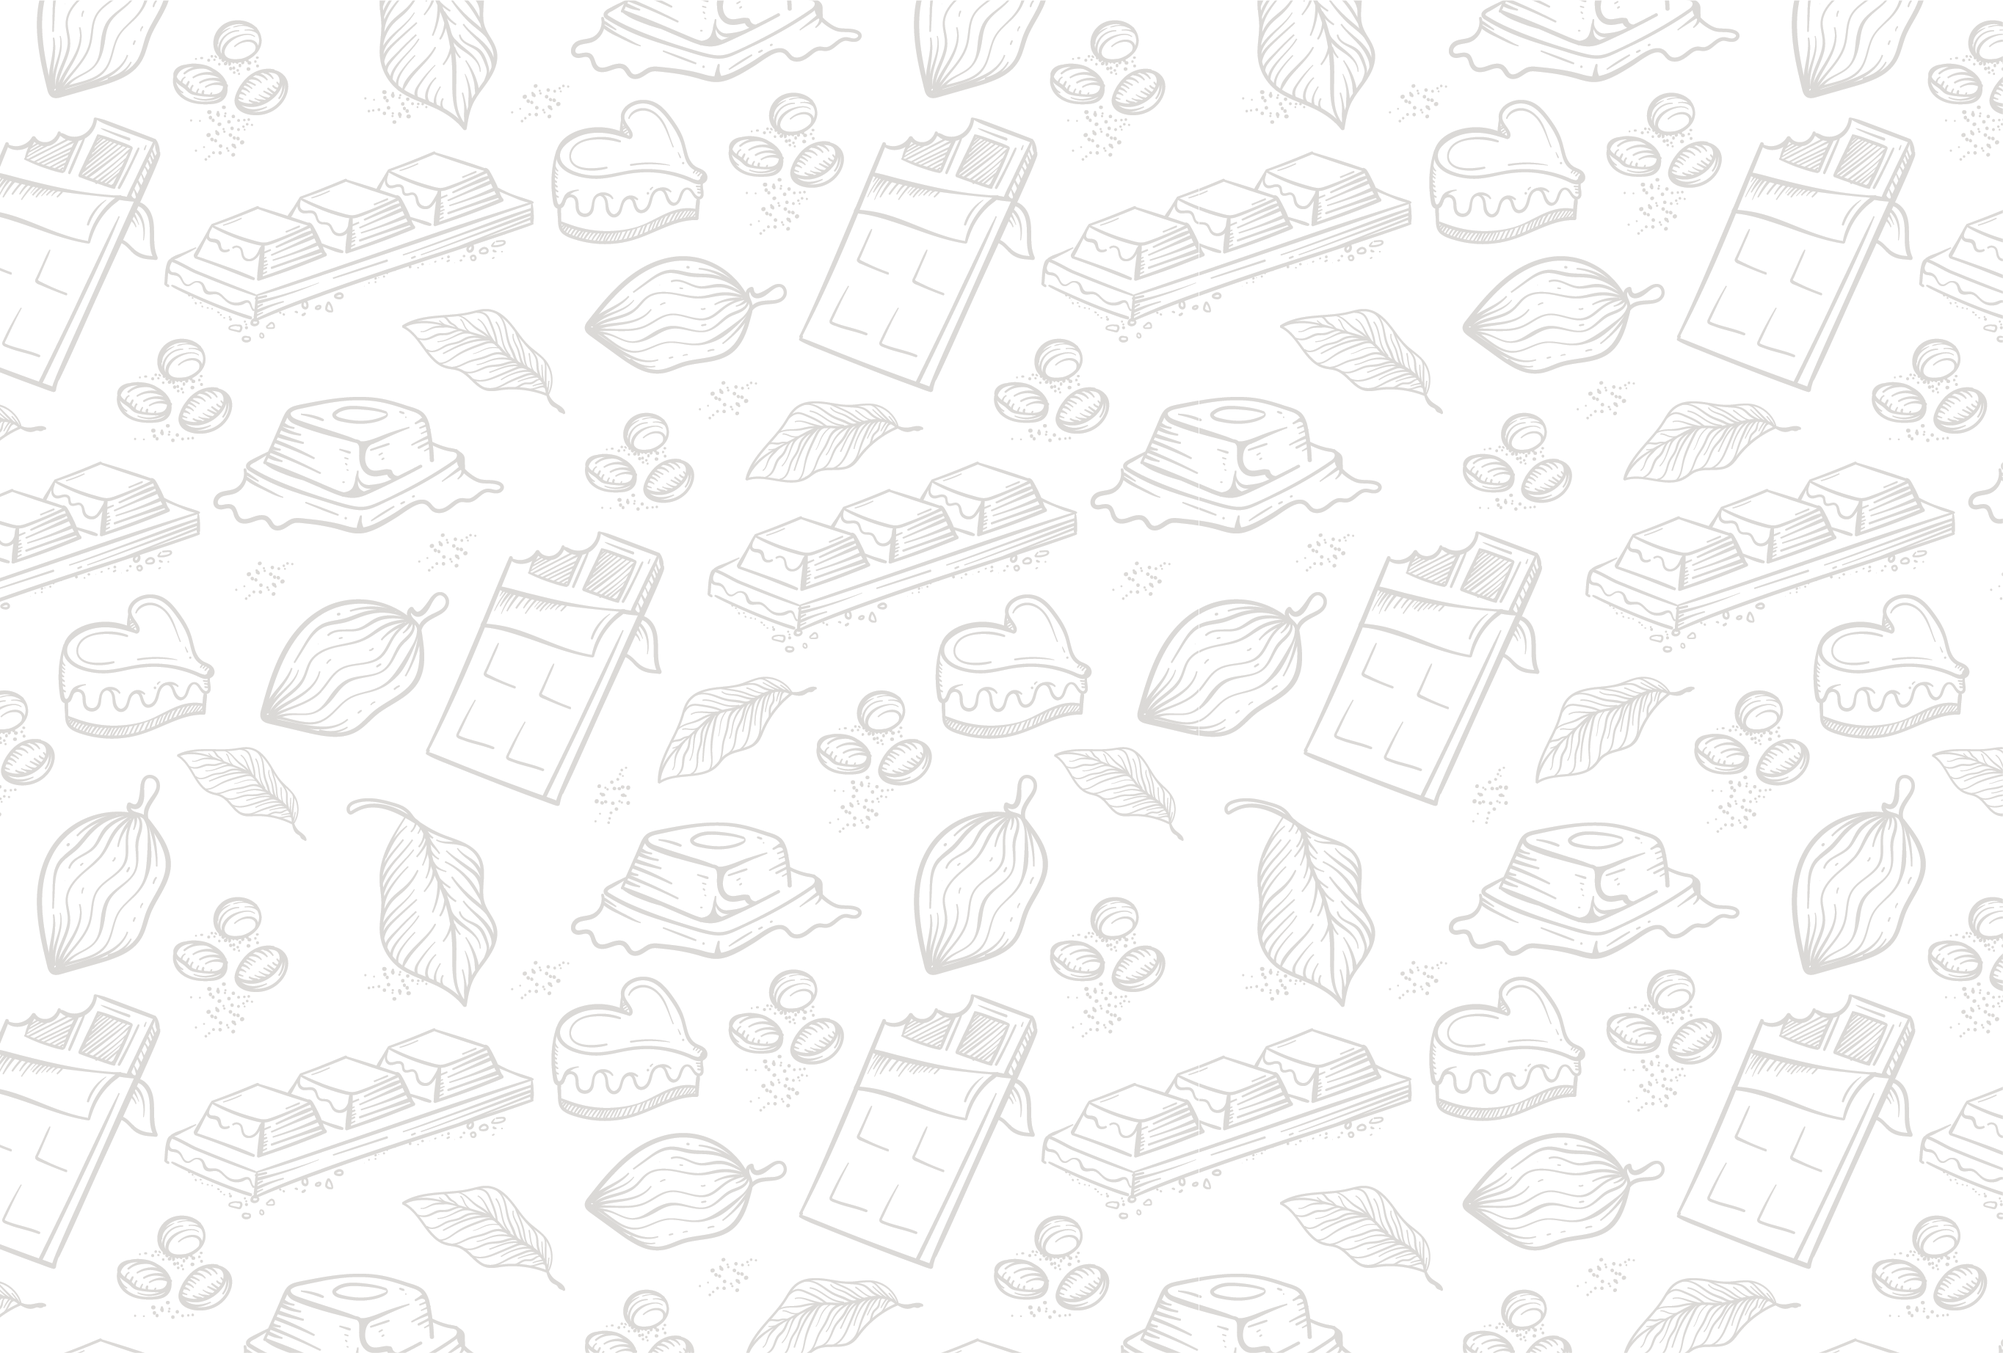
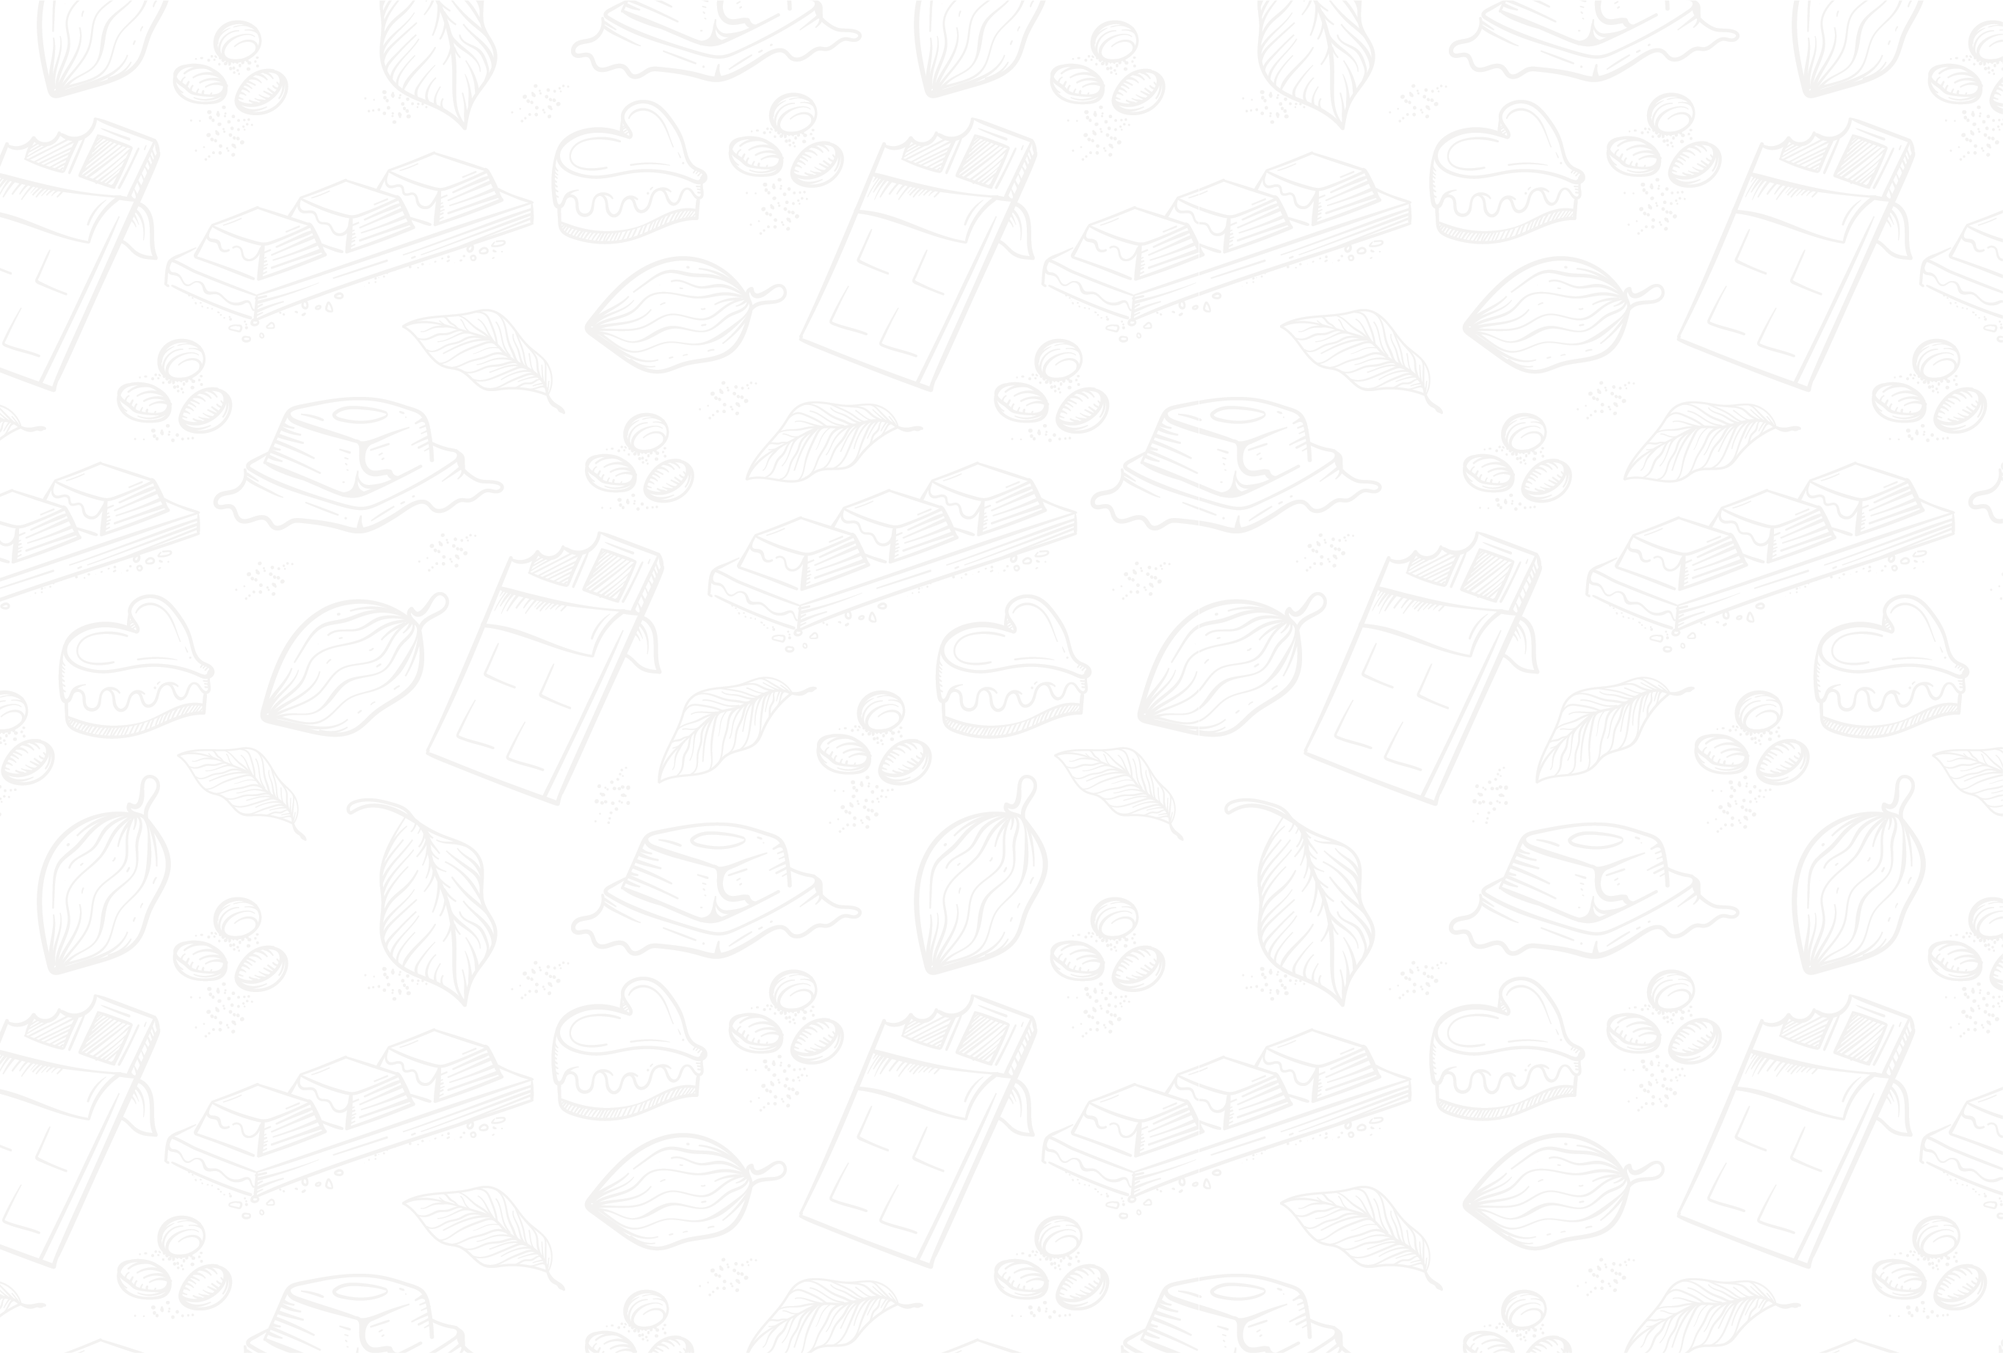
Отзывы под ВП

diff --git a/source/index.html b/source/index.html
@@ -261,75 +261,84 @@
     <section class="feedback section-wrapper" id="feedback">
       <!-- wysiwyg -->
       <h2>Отзывы покупателей</h2>
-      <ul>
-        <li>
+      <div class="slider">
+        <div class="slider__buttons">
+          <button class="slider__button button-round button-round--left" type="button" aria-label="Предыдущий слайд">
+          </button>
+          <button class="slider__button button-round button-round--right" type="button" aria-label="Следующий слайд">
+          </button>
+        </div>
+
+        <ul class="slider__list">
+          <li class="slider__item">
           Пирожное просто великолепное! Настоящее удовольствие! Идеально подходит как для семейного ужина, так и для
           подарка друзьям и коллегам! Приятно удивляет своим вкусом и качеством. Отличный вариант для тех, кто ценит
           высокое качество кондитерских изделий. Обязательно попробуйте и оцените сами!!! (отзыв с Авито)
         </li>
-        <li>
+        <li class="slider__item">
           Добрый вечер. Попробовали всей семьёй Ваше изделие. Очень, очень понравилось! Действительно натуральный вкус и
           приятное послевкусие! Что , в наше время , практически не встретить. Хотелось бы сказать Вам , спасибо, за
           этот продукт. <br>
           Всем советуем попробовать эту вкусноту . И в подарок не стыдно подарить. (отзыв с Авито)
         </li>
-        <li>
+        <li class="slider__item">
           Купил для подарка и для себя - интересно было, что за десерт! Мне очень Понравилось! Действительно напоминает
           чем-то картошку, но нет такой приторности, сухости вкуса. Очень вкусный десерт! С чаем коробка разлетелась за
           один прием! Рекомендую!!👍👍 (отзыв с Авито)
         </li>
-        <li>
+        <li class="slider__item">
           Шарики чудесные и очень вкусные особенно с кофе. 💥👍 Купил на подароки своим родным и друзьям, аж 15
             коробок 😊 Все очень довольны. 👍👍👍💯
         </li>
-        <li>
+        <li class="slider__item">
           <p>Очень вкусно по-настоящему, благодарю, Олег🙏❤</p>
           <p>Послезавтра будут гости, удивлю🙏❤</p>
         </li>
-        <li>
+        <li class="slider__item">
           Олег, присоединяюсь к отзывам про ромовые шарики😊Нам очень понравился десерт👏Вкусно, чувствуется
             натуральный состав, сладость умеренная (как я люблю)! 👍Точно порекомендую! Удачи Вам в развитии вашего
             производства🙏
         </li>
-        <li>
+        <li class="slider__item">
           Олег,дочь купила у вас ромовые шарики,попробовали и очень остались довольны,под новый год чудеса случаются,
             я давно хотела ощутить вкус детства и вот...шарики мне напомнили пирожное из детства,из того Советского
             Союза -" картошка",как же это вкусно 😋
         </li>
-        <li>
+        <li class="slider__item">
           Олег, спасибо за ромовые шарики! Очень вкусный и необычный десерт 😋
         </li>
-        <li>
+        <li class="slider__item">
           Вот как я жила без ромовых шариков? Как? Мне не досталось и уже как-то грустно... Хоть бы один
             попробовать...
         </li>
-        <li>
+        <li class="slider__item">
           Я бы взяла пока 2. Я бы взяла и больше, но боюсь объесться 🤦♀ с ними же невозможно остановиться 😁
         </li>
-        <li>
-          <p>- Добрый день. С сочельником и наступающим крещением! Скажите, пожалуйста, когда можно будет заказать? Взял
+        <li class="slider__item">
+          <p class="slider__description">- Добрый день. С сочельником и наступающим крещением! Скажите, пожалуйста, когда можно будет заказать? Взял
             бы 4 штучки. Ну уж очень вкусно. 🤤</p>
-          <p>- Да, очень вкусно! Я тоже подсел на эти шарики)))</p>
-          <p>- Я тоже подсела, 3 шарика - и я в изменённом состоянии сознания)))</p>
-          <p>- Это какие-то другие шарики, похоже с чем то другим 😁 если такая изменёнка. </p>
+          <p class="slider__description">- Да, очень вкусно! Я тоже подсел на эти шарики)))</p>
+          <p class="slider__description">- Я тоже подсела, 3 шарика - и я в изменённом состоянии сознания)))</p>
+          <p class="slider__description">- Это какие-то другие шарики, похоже с чем то другим 😁 если такая изменёнка. </p>
         </li>
-        <li>
+        <li class="slider__item">
          Наконец то появилось что то вкусное, натуральное!Соскучилась по настоящему, как в детстве. Спасибо, Олег
             большое! Если можно, мне бы 3 коробочки .          
         </li>
-        <li>
+        <li class="slider__item">
           Олег, благодарю за рождественское настроение через вашу продукцию!🙏❤
             Ооооооочень вкусно с кофе с лимончиком💥👍         
         </li>
-        <li>
+        <li class="slider__item">
           Добрый день)) вчера забрали шарики, проба снята))) всё понравилось) даже ром чувствуется)) хочу ещё 3
             коробочки
         </li>
       </ul>
+      </div>
       <!-- ./wysiwyg -->
-      <button class="button button--font-small feedback__button feedback__button--nojs" type="button">
+      <!-- <button class="button button--font-small feedback__button feedback__button--nojs" type="button">
         Почитать все
-      </button>
+      </button> -->
     </section>
 
     <section class="order section-wrapper" id="write">

diff --git a/source/styles/wp/feedback.scss b/source/styles/wp/feedback.scss
@@ -1,7 +1,119 @@
+.wp-block-cb-carousel-v2 {
+  padding-block-start: 60px; // т.к. ниж. поле от заголовка съедается кнопками с абсолютом
+
+  @media #{$desktop} {
+    padding-block-start: 0;
+  }
+}
+
+// кнопки 
+.wp-block-cb-carousel-v2 .cb-button-prev,
+.wp-block-cb-carousel-v2 .cb-button-next {
+  width: 41px;
+  height: 16px;
+  border: none;
+  padding: 0;
+  margin-top: 0;
+  background-color: transparent !important;
+  background-repeat: no-repeat !important;
+  background-position: left center !important;
+  background-image: url(../../images/vector/arrow-mobile.svg) !important;
+  cursor: pointer;
+
+  top: 0;
+  left: 0;
+
+  @media #{$desktop} {
+    position: absolute;
+    width: 70px;
+    height: 70px;
+    border-radius: 50%;
+    background-color: $accent-color !important;
+    background-position: center !important;
+    background-image: url(../../images/vector/arrow-desktop.svg) !important;
+    background-size: 26px auto !important;
+    top: var(--swiper-navigation-top-offset, 50%);
+    transform: translateY(-50%);
+  }
+
+  &:hover {
+    @media #{$desktop} {
+      background-color: $effect-color !important;
+      color: #fff;
+    }
+  }
+
+  &:focus-visible {
+    @media #{$desktop} {
+      background-color: $effect-color !important;
+      color: #fff;
+    }
+  }
+
+  &:active {
+    opacity: 0.8;
+
+    @media #{$desktop} {
+      background-color: $effect-color !important;
+      color: #fff;
+
+    }
+  }
+}
+
+.wp-block-cb-carousel-v2 .cb-button-next {
+  transform: rotate(180deg);
+  left: auto;
+  right: 0;
+
+  @media #{$desktop} {
+    transform: translateY(-50%) rotate(180deg);
+  }
+}
+
+.swiper-button-prev.swiper-button-disabled,
+.swiper-button-next.swiper-button-disabled {
+  opacity: 1 !important;
+
+  @media #{$desktop} {
+    background-color: $disabled-color !important;
+  }
+}
+
+// удаляет станд. стрелку плагина
+.wp-block-cb-carousel-v2 .cb-button-prev::after,
+.wp-block-cb-carousel-v2 .cb-button-next::after {
+  content: none;
+}
+
+// слайдер
+.swiper {
+  max-width: 1015px;
+  margin: 0 auto;
+}
+
+.swiper-wrapper {
+  align-items: stretch;
+}
+
+// отдельный слайд
+.swiper-slide {
+  flex-basis: 320px;
+  flex-shrink: 0;
+  height: auto !important;
+  padding: 20px;
+  border: 2px solid $accent-color;
+  border-radius: 10px;
+  background: #fff;
+}
+
+
+
+
 // --
 // feedback-list - для списка с отзывами
-.feedback ul,
-.feedback-list {
+//.feedback ul,
+/* .feedback-list {
   @include list();
   display: flex;
   flex-direction: column;
@@ -14,10 +126,10 @@
     gap: 36px;
     margin-block-end: 108px;
   }
-}
+} */
 
-.feedback li,
-.feedback-list li {
+//.feedback li,
+/* .feedback-list li {
   outline: 2px solid $accent-color;
   border-radius: 20px;
   padding: 25px 20px 10px;
@@ -32,10 +144,10 @@
 .feedback li.hidden,
 .feedback-list li.hidden {
   display: none;
-}
+} */
 
 //++ удалить для wp
-.feedback__button {
+/* .feedback__button {
   width: 20rem; // 320px;
   margin-inline: auto;
 
@@ -46,11 +158,11 @@
   &--nojs {
     display: none;
   }
-}
+} */
 
 //--
 // кнопка в отзывах
-.feedback .wp-block-button__link {
+/* .feedback .wp-block-button__link {
   @include links();
   @include font($font-text, 1.6875rem, 600, 100%, #fff); //27px
   width: 20rem; // 320px;
@@ -91,7 +203,7 @@
   &:disabled {
     background: $disabled-color;
   }
-}
+} */
 
 
 

diff --git a/source/scripts/scripts.js b/source/scripts/scripts.js
@@ -20,7 +20,7 @@ if (header) {
 
 
 // feedback
-//--const moreFeedbackButton = document.querySelector('.feedback__button');
+/* //--const moreFeedbackButton = document.querySelector('.feedback__button');
 const moreFeedbackButton = document.querySelector('.feedback .wp-block-button__link'); // кнопка в WP
 const feedbacks = document.querySelectorAll('.feedback li, .feedback-list li');
 let feedbackShowFlag = false;
@@ -49,7 +49,7 @@ if (moreFeedbackButton && feedbacks) {
     if (feedbackShowFlag) moreFeedbackButton.textContent = 'Свернуть отзывы';
     else moreFeedbackButton.textContent = 'Почитать все';
   });
-}
+} */
 
 
 // form

diff --git a/source/styles/wp/about.scss b/source/styles/wp/about.scss
@@ -8,26 +8,14 @@
   }
 }
 
-//--
 .about__wrapper {
   @media #{$desktop} {
     max-width: 1440px;
     margin: 0 auto;
-    //position: relative;
+    position: relative;//
 
     background: url(../../images/natural.png) no-repeat right bottom;
 
-    /* &::after {
-      content: "";
-      display: block;
-      width: 178px;
-      height: 169px;
-      background: url(../../images/natural.png) no-repeat center;
-      position: absolute;
-      bottom: -100px;
-      right: 0;
-      z-index: -1;
-    } */
   }
 }
 

diff --git a/source/styles/styles.scss b/source/styles/styles.scss
@@ -23,6 +23,7 @@
 @import 'blocks/checkbox.scss';
 @import 'blocks/accordion.scss'; // отключить для вп
 @import 'blocks/slider.scss'; // отключить для вп
+@import 'blocks/gallery.scss'; // отключить для вп
 @import 'blocks/footer.scss';
 
 
@@ -37,4 +38,4 @@
 @import 'wp/feedback.scss';
 @import 'wp/order.scss';
 @import 'wp/form.scss';
-@import 'wp/gallery.scss';
+//@import 'wp/gallery.scss';

diff --git a/source/styles/blocks/page.scss b/source/styles/blocks/page.scss
@@ -3,6 +3,10 @@
 }
 .page__body {
   margin: 0;
-  background: url(../../images/page-bg-op10.png);
+  background: image-set(url(../../images/page-bg-mobile.webp) type("image/webp"),url(../../images/page-bg-mobile.png));
 
+  @media #{$desktop} {
+    background: image-set(url(../../images/page-bg.webp) type("image/webp"), url(../../images/page-bg.png));
+    
+  }
 }

diff --git a/source/styles/wp/common.scss b/source/styles/wp/common.scss
@@ -110,7 +110,7 @@ a {
 
 // изображения внутри текста, как разделители (в мобилке)
 // обязательно добавлять класс при вставке в WP
-.image-divider {
+.wp-block-columns .image-divider {
   max-width: 178px;
   height: auto;
   display: block;

diff --git a/source/styles/wp/slider.scss b/source/styles/wp/slider.scss
@@ -79,7 +79,7 @@
 
   &:disabled,
   &.disabled {
-    cursor: default;
+    cursor: auto;
     opacity: 1;
 
     @media #{$desktop} {
@@ -284,7 +284,7 @@
 
   &:disabled,
   &.disabled {
-    cursor: default;
+    cursor: auto;
     opacity: 1;
 
     @media #{$desktop} {

diff --git a/source/styles/blocks/slider.scss b/source/styles/blocks/slider.scss
@@ -36,7 +36,8 @@
   overflow-x: hidden;
 
   @media #{$desktop} {
-    justify-content: center;
+    max-width: 1015px;
+    margin: 0 auto;
   }
 }
 
